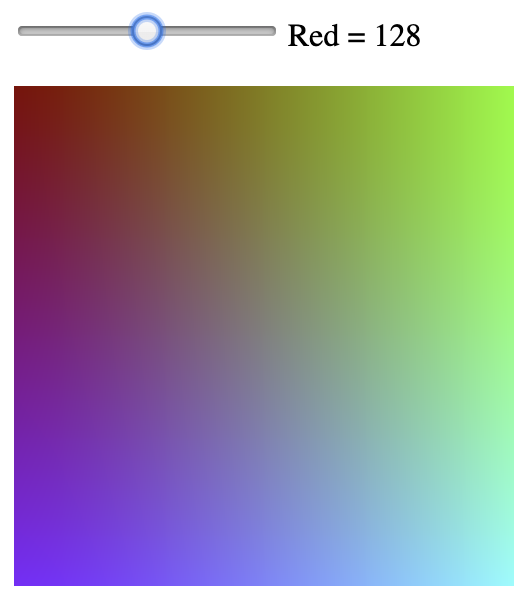
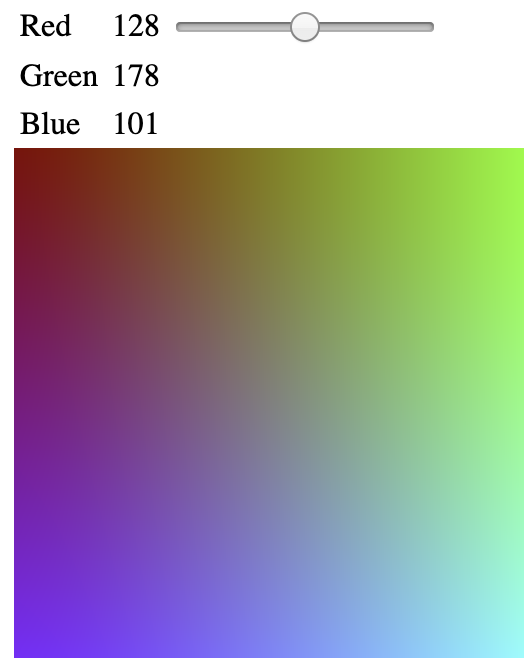
Add mousemove handler to display green and blue values

Changed region(s): [[0.0, 0.0, 1.0, 0.9966]]

diff --git a/index.js b/index.js
@@ -13,8 +13,17 @@ const wasmFilePath = './wasm_lib/colour_map.wasm'
 // Event handler for updating slider text and regenerating a new colour square
 const sliderUpdate =
   val => {
-    $id("sliderText").innerHTML = val
+    $id("redValue").innerHTML = val
     drawColourSquare(val)
+  }
+
+// *****************************************************************************
+// Event handler for canvas mousemove event
+// *****************************************************************************
+const canvasMouseMoveHandler =
+  e => {
+    $id("blueValue").innerHTML  = e.offsetY
+    $id("greenValue").innerHTML = e.offsetX
   }
 
 // *****************************************************************************
@@ -83,6 +92,9 @@ const start =
     cvs = $id("canvas")
     ctx = cvs.getContext('2d')
     img = ctx.createImageData(cvs.clientWidth, cvs.height)
+
+    // Add mouse move handler to canvas
+    cvs.onmousemove = canvasMouseMoveHandler
 
     // Draw the initial colour square
     sliderUpdate($id("red_slider").value)

diff --git a/index.html b/index.html
@@ -1,13 +1,21 @@
 <html>
 <body onload="start()">
   <script src="./index.js"></script>
-  <div>
-    <p>
-      <input id="red_slider" type="range" min="0" max="255" step="1" oninput="sliderUpdate(this.value)"/>
-      Red = <span id="sliderText"></span>
-    </p>
-  </div>
+  <table border="0" cellpadding="3" cellspacing="0">
+    <tr><td>Red</td>
+        <td style="text-align: right;" id="redValue"></td>
+        <td><input id="red_slider" type="range" min="0" max="255" step="1" oninput="sliderUpdate(this.value)"/></td>
+    </tr>
+    <tr><td>Green</td>
+        <td style="text-align: right;" id="greenValue">0</td>
+        <td></td>
+    </tr>
+    <tr><td>Blue</td>
+        <td style="text-align: right;" id="blueValue">0</td>
+        <td></td>
+    </tr>
+  </table>
   
-  <canvas id="canvas" width="250" height="250"></canvas>
+  <canvas id="canvas" width="255" height="255"></canvas>
 </body>
 </html>

diff --git a/README.md b/README.md
@@ -1,10 +1,12 @@
 # WebAssembly `colour_square` Generator
 
-A small WebAssembly Text program that generates the RGBA data needed to display a simple colour square.
+A small WebAssembly Text program that generates the RGBA data needed to display a simple colour square 255 pixels square.
 
-The blue value varies along the vertical axis, and the green value varies along the horizontal access.
+The blue value varies down the vertical axis, and the green value varies along the horizontal access.
 
 By moving the slider, you can adjust the value of the red component from 0 to 255, and thus you can generate all possible RGB colours.
+
+As you move the mouse pointer over the colour square, the green and blue values are displayed.
 
 ![Screenshot](./Screenshot.png)
 
